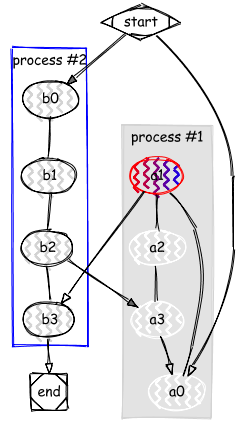
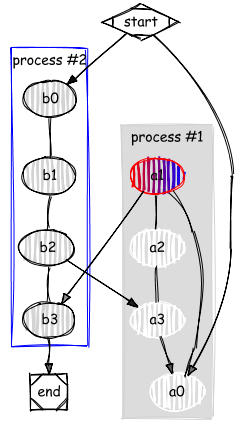
add readme for rough module

diff --git a/graphviz-rough/src/test/java/guru/nidi/graphviz/rough/ReadmeTest.java b/graphviz-rough/src/test/java/guru/nidi/graphviz/rough/ReadmeTest.java
@@ -63,9 +63,9 @@ class ReadmeTest {
 
         Graphviz.fromGraph(g)
                 .filter(new RoughFilter()
-                        .bowing(1)
+                        .bowing(2)
                         .roughness(1)
-                        .fillStyle(FillStyle.zigzagLine().width(2).gap(5).angle(0))
+                        .fillStyle(FillStyle.hachure().width(2).gap(5).angle(0))
                         .font("*serif", "Comic Sans MS"))
                 .render(Format.PNG)
                 .toFile(new File("example/ex1-rough.png"));
